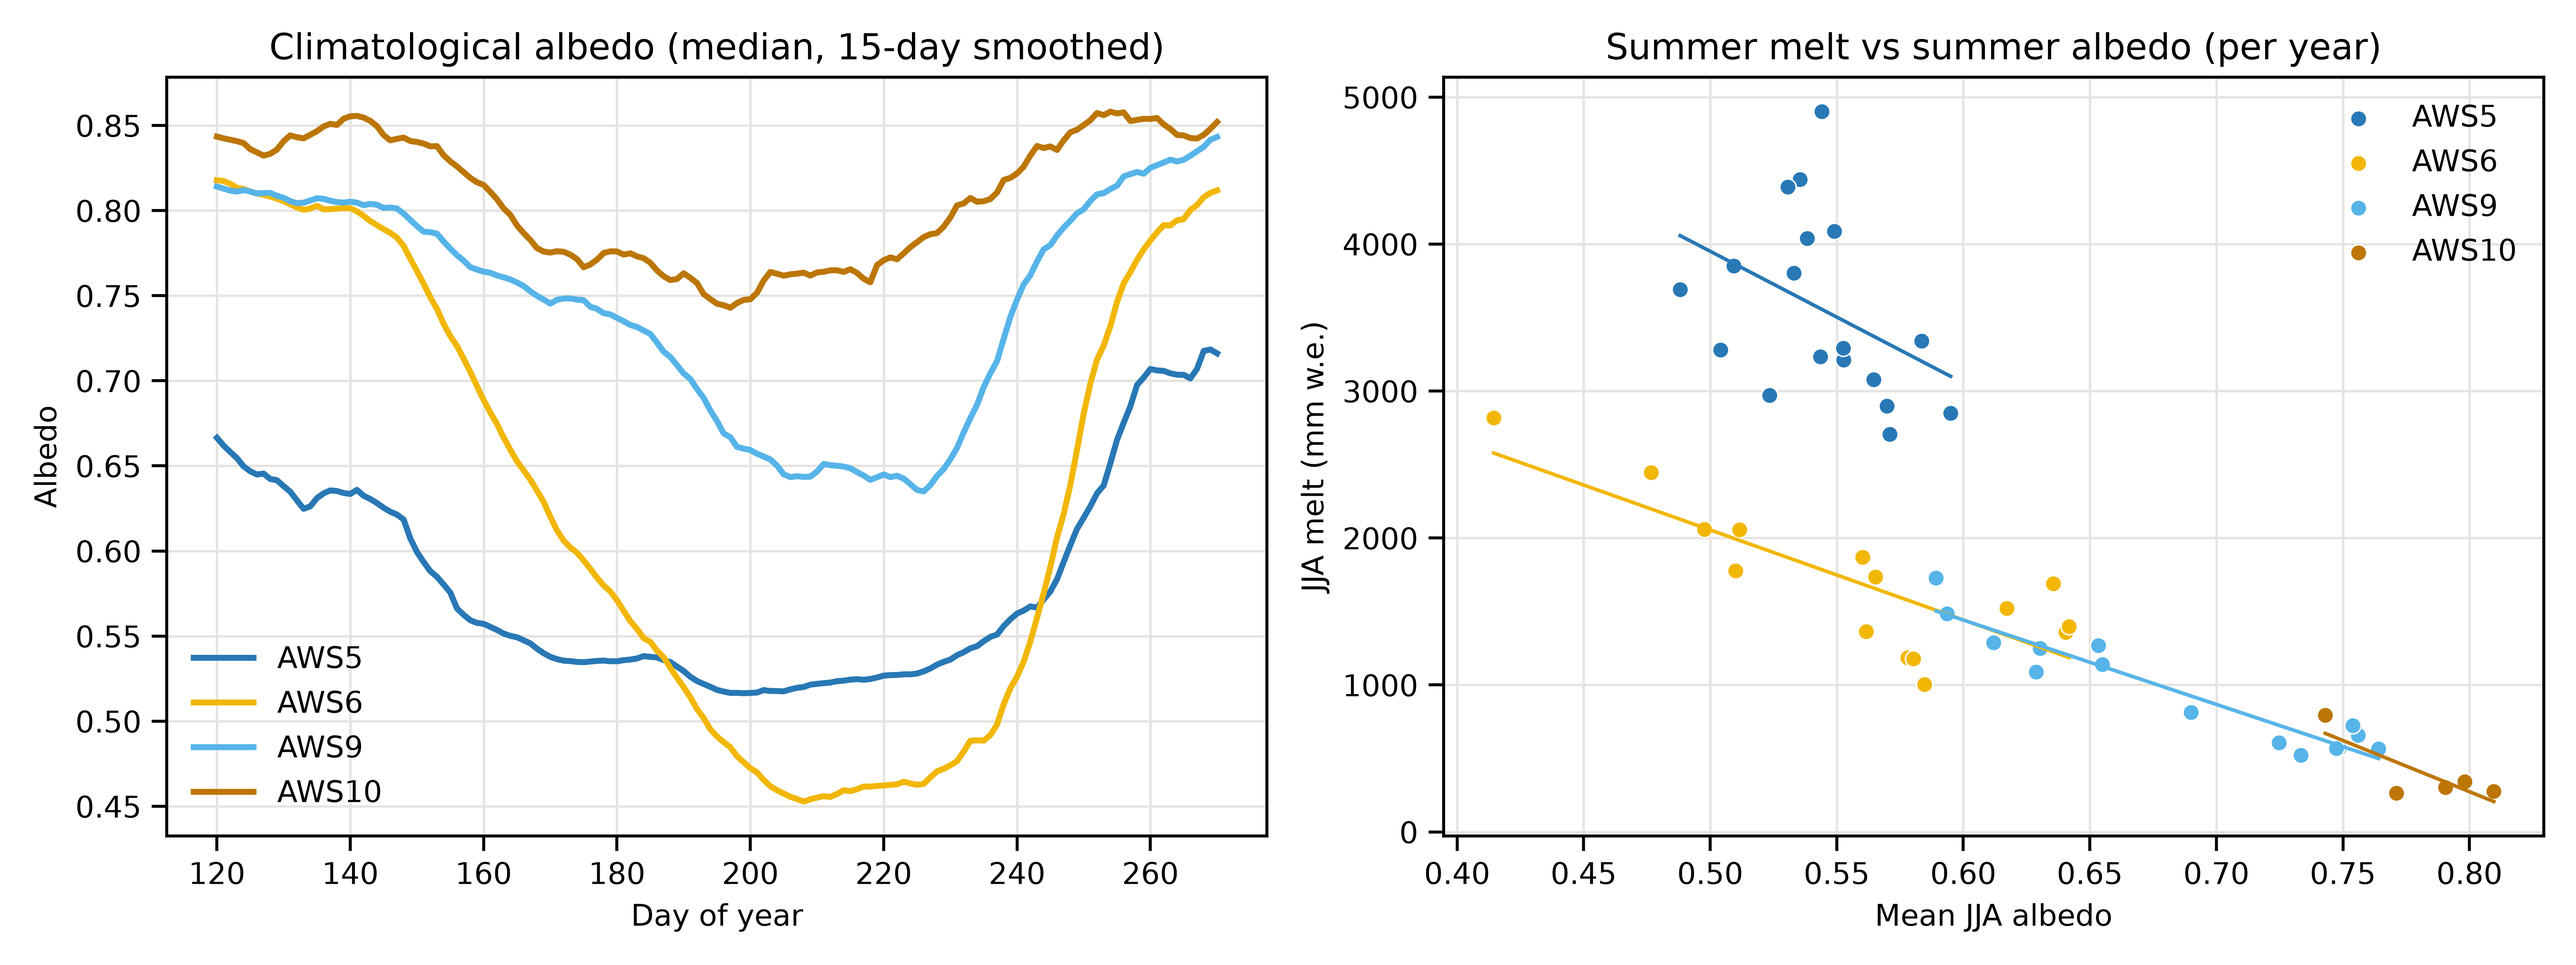
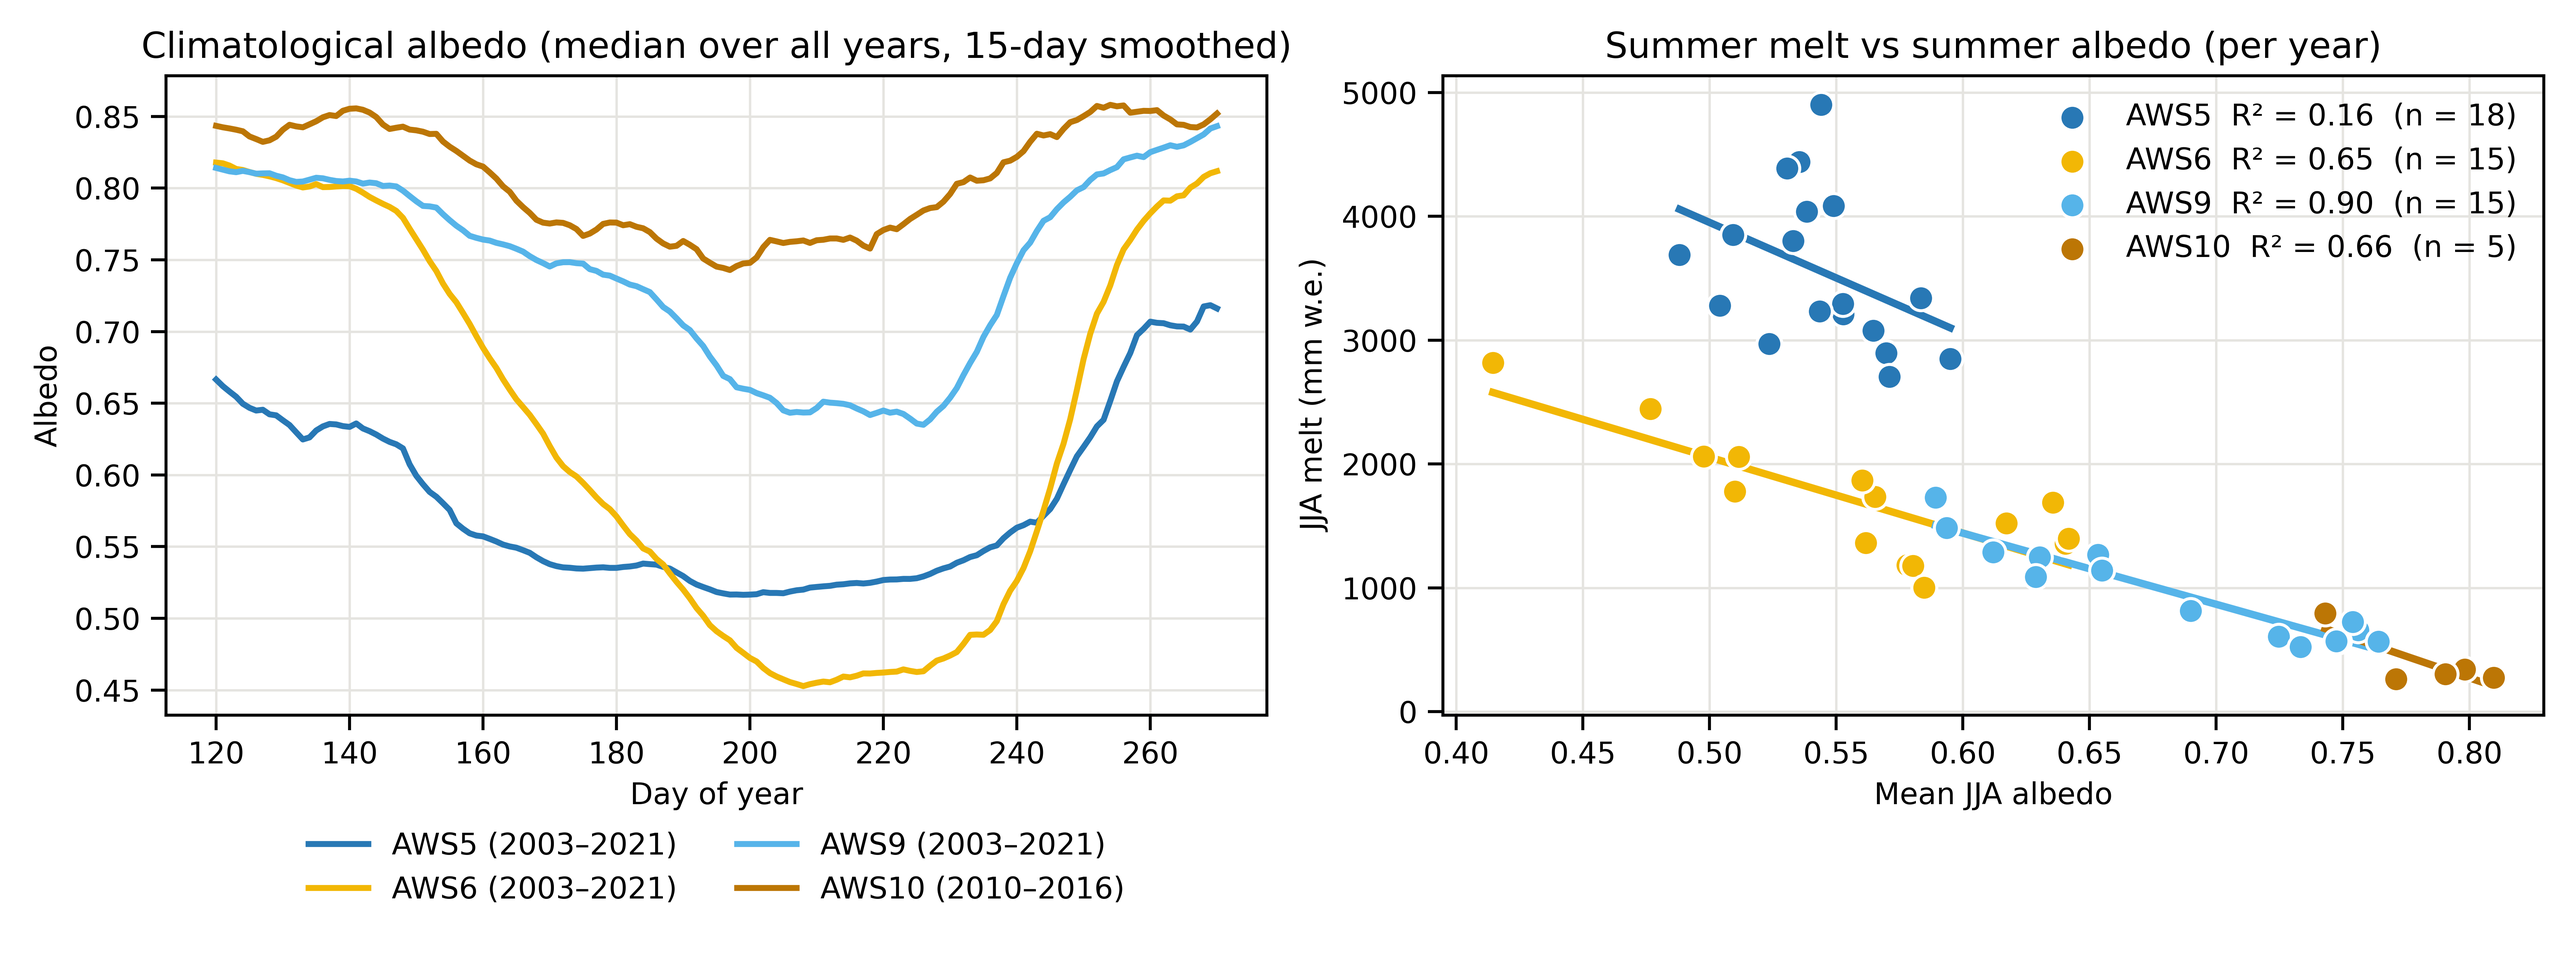
plot changes

diff --git a/code/elevation_albedo.py b/code/elevation_albedo.py
@@ -97,6 +97,8 @@ def jja_summary(station):
     seb = mc.melt_aws(station, df)
     alb_d = daily_albedo(df)
     clim = climatological_albedo(alb_d)
+    yrs_alb = alb_d.dropna().index.year
+    clim.attrs["period"] = f"{yrs_alb.min()}–{yrs_alb.max()}"   # jaren in de klimatologie
     seb_clim = melt_with_clim_albedo(station, df, clim)
 
     sel = df.index.month.isin(JJA)
@@ -229,31 +231,95 @@ def style(ax):
     ax.grid(axis="x", color="#e5e4e0", lw=0.8)
 
 
+# Vorm per station en kleur per serie voor de hoogtefiguur
+STATION_MARKERS = {"AWS5": "o", "AWS6": "s", "AWS9": "^", "AWS10": "*"}
+MARKER_SIZE = {"*": 170}   # ster oogt klein, daarom groter
+SERIES_COLORS = {"SWnet": "#2a78d6", "LWnet": "#eb6834", "SHF": "#1baf7a", "melt": "#6250d6"}
+NEUTRAL = "#52514e"
+
+
+def _gradient_series(ax, clim, v, color, label):
+    """Punten per station (eigen vorm) plus lineaire fit, in een kleur."""
+    for st, row in clim.iterrows():
+        m = STATION_MARKERS[st]
+        ax.scatter(row[v], row["elevation"], s=MARKER_SIZE.get(m, 80), marker=m, color=color,
+                   edgecolor="white", lw=1, zorder=3)
+    r = regress(clim["elevation"].values, clim[v].values)
+    z = np.linspace(clim["elevation"].min(), clim["elevation"].max(), 10)
+    line, = ax.plot(r["intercept"] + r["slope"] * z, z, color=color, lw=2, ls="--", zorder=2, label=label)
+    return line
+
+
+def _station_legend(clim):
+    from matplotlib.lines import Line2D
+    return [Line2D([], [], ls="", marker=STATION_MARKERS[st], ms=13 if STATION_MARKERS[st] == "*" else 9,
+                   color=NEUTRAL, mec="white", label=f"{st} ({int(clim.loc[st, 'elevation'])} m)")
+            for st in clim.index]
+
+
 def plot_gradients(clim_full, clim_common, grads, out):
-    panels = ["T", "albedo", "SWnet", "SHF", "LWnet", "melt"]
-    fig, axes = plt.subplots(2, 3, figsize=(12, 7))
-    for ax, v in zip(axes.flat, panels):
-        for st, row in clim_full.iterrows():
-            ax.scatter(row[v], row["elevation"], s=60, color=mc.COLORS[st], zorder=3,
-                       edgecolor="white", lw=1.5, label=st)
-            ax.annotate(st, (row[v], row["elevation"]), xytext=(6, 4),
-                        textcoords="offset points", fontsize=8, color="#52514e")
-        ax.scatter(clim_common[v], clim_common["elevation"], s=28, marker="D",
-                   facecolor="none", edgecolor="#52514e", lw=1, zorder=4)
+    """Twee figuren: temperatuur en albedo (out_T_albedo) en energiebalans + smelt (out)."""
+    # --- figuur 1: temperatuur en albedo ---
+    fig, (ax_t, ax_a) = plt.subplots(1, 2, figsize=(10, 5.6), sharey=True)
+    for a, v in [(ax_t, "T"), (ax_a, "albedo")]:
+        _gradient_series(a, clim_full, v, NEUTRAL, None)
         g = grads.loc[v]
-        z = np.linspace(clim_full["elevation"].min(), clim_full["elevation"].max(), 10)
-        r = regress(clim_full["elevation"].values, clim_full[v].values)
-        ax.plot(r["intercept"] + r["slope"] * z, z, color="#a8a7a2", lw=1.2, ls="--", zorder=2)
         unit = "" if VARS[v][1] == "-" else f" {VARS[v][1]}"
-        ax.set_title(f"{VARS[v][0]}\n{g.gradient_per_100m:+.3g}{unit} per 100 m  (R²={g.r2:.2f})",
-                     fontsize=10)
-        ax.set_xlabel(VARS[v][1])
-        style(ax)
-    for ax in axes[:, 0]:
-        ax.set_ylabel("elevation (m)")
-    fig.text(0.01, 0.005, "● JJA mean over all years per station   ◇ common period "
-             "(all 4 stations)   -- linear fit", fontsize=8, color="#52514e")
-    fig.tight_layout(rect=(0, 0.02, 1, 1))
+        a.set_title(f"{VARS[v][0]}\n{g.gradient_per_100m:+.3g}{unit} per 100 m  (R²={g.r2:.2f})", fontsize=10)
+        a.set_xlabel(VARS[v][0] if VARS[v][1] == "-" else f"{VARS[v][0]} ({VARS[v][1]})")
+        style(a)
+    ax_t.set_ylabel("Elevation (m)")
+    fig.legend(handles=_station_legend(clim_full), frameon=False, fontsize=9, loc="lower center",
+               bbox_to_anchor=(0.5, 0.06), ncol=4)
+    fig.text(0.01, 0.015, "Points: JJA mean over all years per station.  Dashed: linear fit.",
+             fontsize=8, color="#52514e")
+    fig.tight_layout(rect=(0, 0.13, 1, 1))
+    fig.savefig(out.with_name("elevation_T_albedo.png"), dpi=600)
+    plt.close(fig)
+
+    # --- figuur 2: energiebalanstermen (onderste x-as) en smelt (bovenste x-as) ---
+    fig, ax = plt.subplots(figsize=(9, 7.2))
+
+    def lab(v):
+        g = grads.loc[v]
+        return f"{VARS[v][0]}: {g.gradient_per_100m:+.3g} {VARS[v][1]} per 100 m (R²={g.r2:.2f})"
+
+    lines = [_gradient_series(ax, clim_full, v, SERIES_COLORS[v], lab(v)) for v in ["SWnet", "LWnet", "SHF"]]
+    ax.axvline(0, color="#a8a7a2", lw=0.8, zorder=1)
+    ax.set_xlabel("Energy flux, JJA mean (W/m²)")
+    ax.set_ylabel("Elevation (m)")
+    style(ax)
+    top = ax.twiny()
+    melt_line = _gradient_series(top, clim_full, "melt", SERIES_COLORS["melt"], lab("melt"))
+    lines.append(melt_line)
+    # schaal van de bovenste as: de smeltfit valt precies midden tussen de fits van SHF en
+    # SWnet (op de laagste en hoogste stationshoogte), zodat de lijnen elkaar niet kruisen
+    z_ends = np.array([clim_full["elevation"].min(), clim_full["elevation"].max()])
+    def fit_at(v):
+        r = regress(clim_full["elevation"].values, clim_full[v].values)
+        return r["intercept"] + r["slope"] * z_ends
+    w_target = (fit_at("SHF") + fit_at("SWnet")) / 2          # W/m² op de onderste as
+    m_fit = fit_at("melt")                                      # mm w.e. op de bovenste as
+    b = (w_target[1] - w_target[0]) / (m_fit[1] - m_fit[0])     # W/m² per mm w.e.
+    a = w_target[0] - b * m_fit[0]
+    x0, x1 = ax.get_xlim()
+    top.set_xlim((x0 - a) / b, (x1 - a) / b)
+    top.set_xticks([t for t in top.get_xticks() if 0 <= t <= top.get_xlim()[1]])   # geen negatieve smelt
+    # bovenste as in de kleur van de smeltlijn, zodat duidelijk is welke serie erbij hoort
+    melt_color = melt_line.get_color()
+    top.set_xlabel("JJA melt (mm w.e.)", color=melt_color)
+    top.tick_params(axis="x", colors=melt_color)
+    top.spines["top"].set_color(melt_color)
+    ax.set_title("Surface energy balance and melt vs elevation", fontsize=11, pad=12)
+
+    # legenda's: kleur = serie, vorm = station
+    fig.legend(handles=_station_legend(clim_full), frameon=False, fontsize=9, loc="lower left",
+               bbox_to_anchor=(0.01, 0.175), ncol=4, title="Station (marker)", title_fontsize=9)
+    fig.legend(handles=lines, frameon=False, fontsize=9, loc="lower left",
+               bbox_to_anchor=(0.01, 0.03), ncol=1, title="Series (colour)", title_fontsize=9)
+    fig.text(0.99, 0.015, "Points: JJA mean over all years per station.  Dashed: linear fit.",
+             fontsize=8, color="#52514e", ha="right")
+    fig.tight_layout(rect=(0, 0.24, 1, 1))
     fig.savefig(out, dpi=600)
     plt.close(fig)
 
@@ -309,19 +375,20 @@ def plot_albedo_climatology(clims, years, out):
     fig, (ax1, ax2) = plt.subplots(1, 2, figsize=(12, 4.5))
     for st, c in clims.items():
         c = c.loc[120:270]
-        ax1.plot(c.index, c.values, lw=2, color=mc.COLORS[st], label=st)
+        ax1.plot(c.index, c.values, lw=2, color=mc.COLORS[st], label=f"{st} ({c.attrs.get('period', '?')})")
     ax1.set_xlabel("Day of year")
     ax1.set_ylabel("Albedo")
-    ax1.set_title("Climatological albedo (median, 15-day smoothed)")
-    ax1.legend(frameon=False)
+    ax1.set_title("Climatological albedo (median over all years, 15-day smoothed)")
+    ax1.legend(frameon=False, ncol=2, loc="upper center", bbox_to_anchor=(0.5, -0.14))
     mc.style(ax1)
     for st in mc.AWS_STATIONS:
         d = years[years["station"] == st]
-        ax2.scatter(d["albedo"], d["melt"], s=30, color=mc.COLORS[st], edgecolor="white", lw=0.5, label=st)
         r = regress(d["albedo"].values, d["melt"].values)
+        ax2.scatter(d["albedo"], d["melt"], s=70, color=mc.COLORS[st], edgecolor="white", lw=1,
+                    label=f"{st}  R² = {r['r2']:.2f}  (n = {r['n']})", zorder=3)
         if np.isfinite(r["slope"]):
             x = np.linspace(d["albedo"].min(), d["albedo"].max(), 5)
-            ax2.plot(x, r["intercept"] + r["slope"] * x, color=mc.COLORS[st], lw=1.2)
+            ax2.plot(x, r["intercept"] + r["slope"] * x, color=mc.COLORS[st], lw=2.5, zorder=2)
     ax2.set_xlabel("Mean JJA albedo")
     ax2.set_ylabel("JJA melt (mm w.e.)")
     ax2.set_title("Summer melt vs summer albedo (per year)")

diff --git a/resultaten.md b/resultaten.md
@@ -87,7 +87,7 @@ Voor elk station en elke zomer (juni–augustus, JJA) zijn gemiddeld: temperatuu
 
 ### Wat er gevonden is
 
-**Verandering met de hoogte** ([figuur](output/elevation/elevation_gradients.png)):
+**Verandering met de hoogte** ([figuur temperatuur en albedo](output/elevation/elevation_T_albedo.png), [figuur energiebalans en smelt](output/elevation/elevation_gradients.png)):
 
 | Grootheid | Verandering per 100 m hoger | R² |
 |---|---|---|
